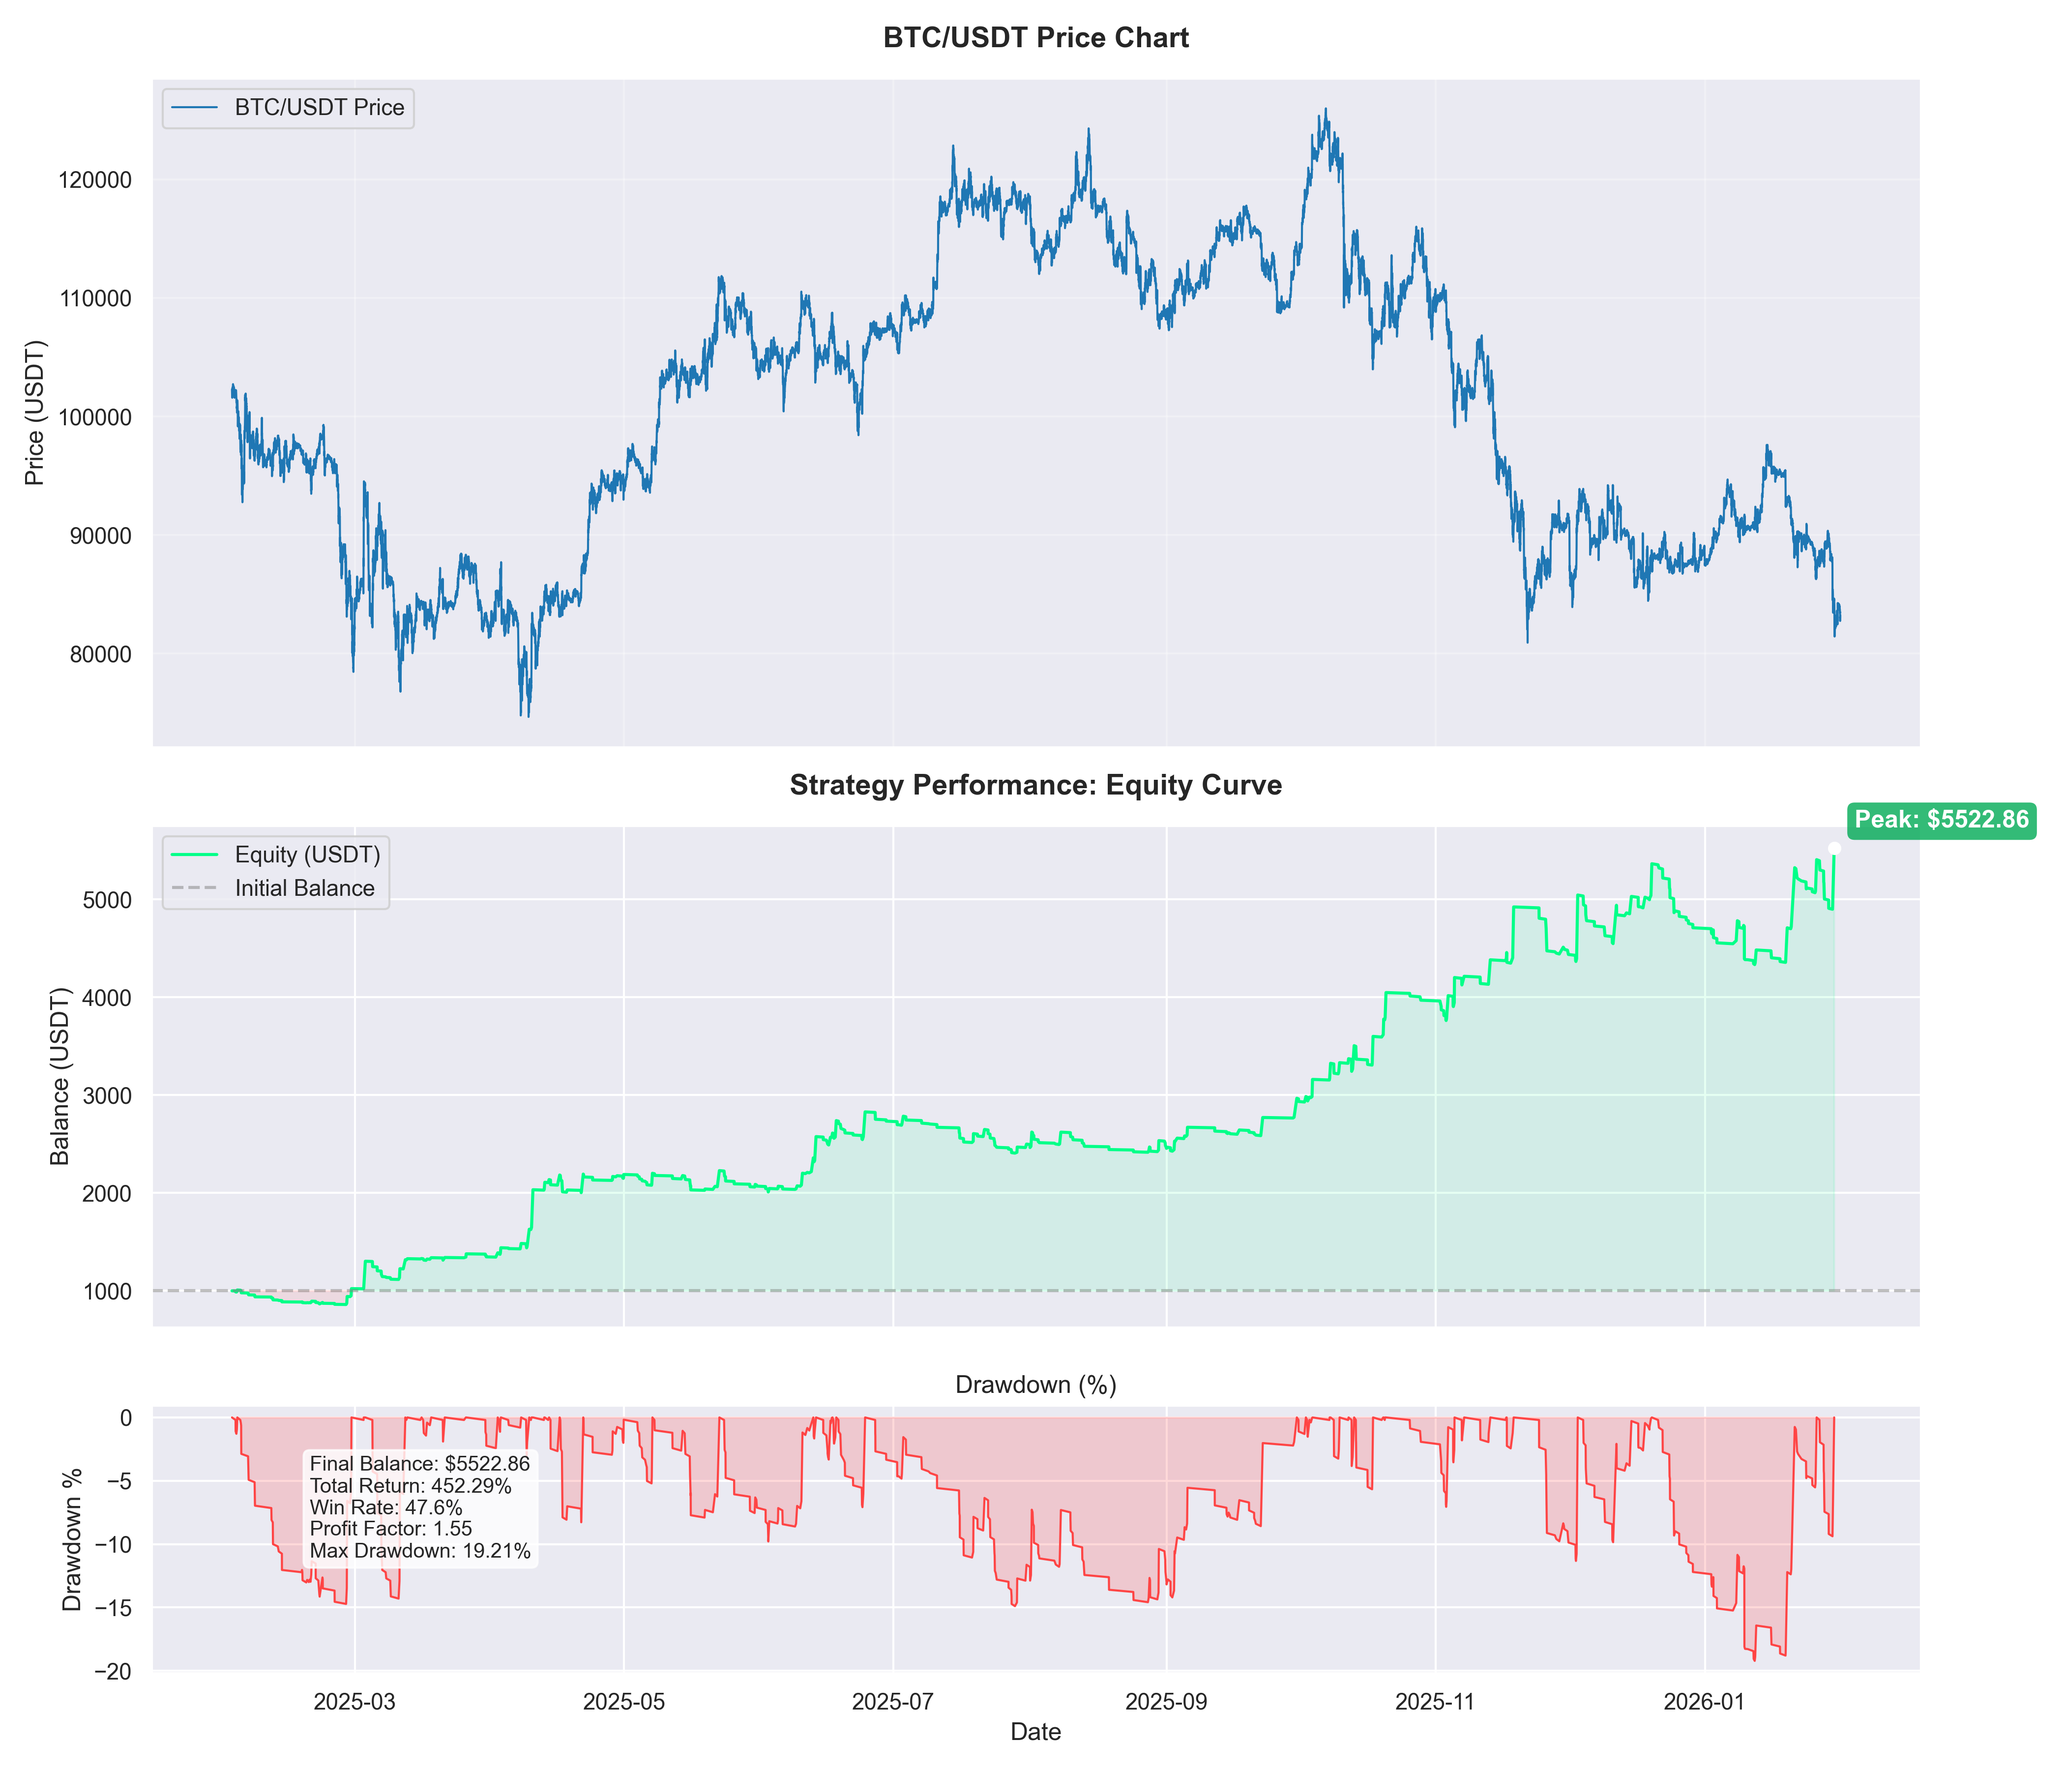
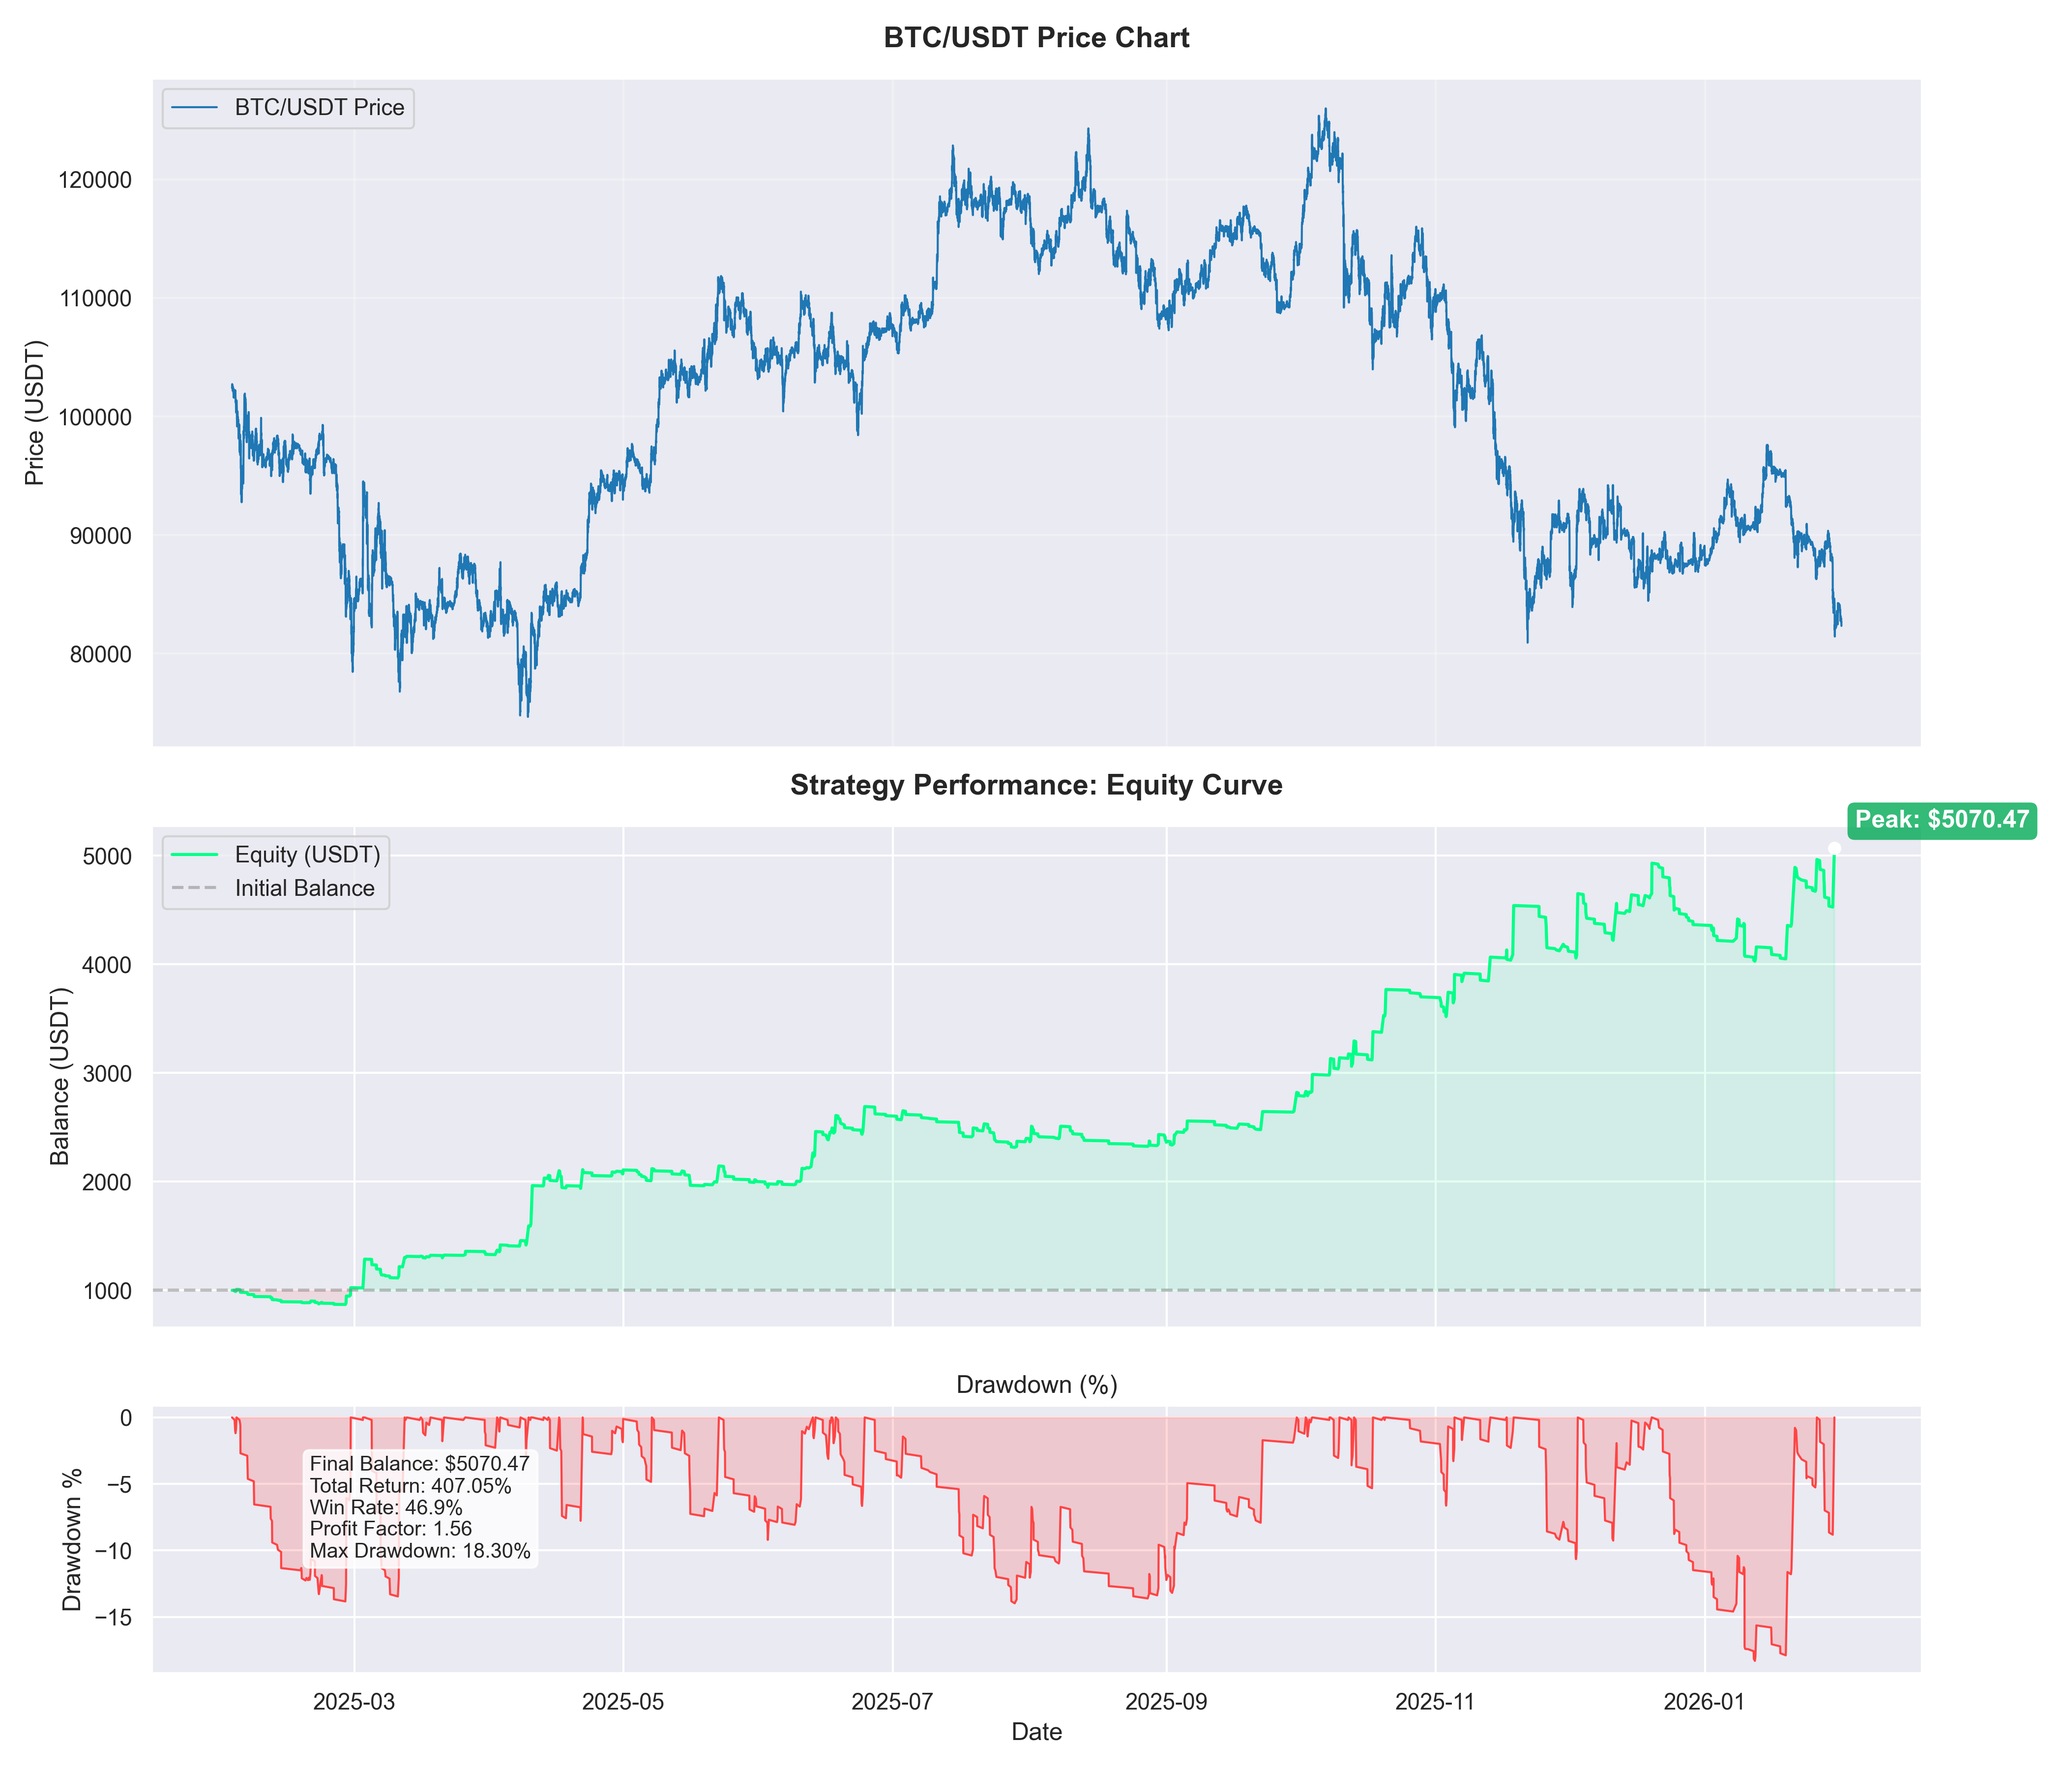
feat: Implement leverage and position size optimization, add backtest result plotting, and update default parameters.

diff --git a/optimize/plot_results.py b/optimize/plot_results.py
@@ -12,48 +12,37 @@ from backtest import get_backtest_data, simulate
 from bot.data_processor import DataProcessor
 from config import EMA_LENGTH, ADX_LENGTH, ATR_LENGTH, RSI_LENGTH, VOLUME_MA_LENGTH
 
-def plot_performance():
-    # 1. Get Data and Run Simulation
-    print("🔄 Loading data and running simulation...")
-    df = get_backtest_data()
-    if df is None:
-        print("❌ No data found.")
-        return
+def plot_performance(df=None, trades=None, res=None):
+    # 1. Get Data and Run Simulation (if not provided)
+    if df is None or trades is None or res is None:
+        print("🔄 Loading data and running simulation...")
+        df = get_backtest_data()
+        if df is None:
+            print("❌ No data found.")
+            return
 
-    # Calculate indicators needed for simulation
-    df_ha = DataProcessor.calculate_heikin_ashi(df)
-    df_st = DataProcessor.calculate_supertrend(df_ha)
-    df_st[f'EMA_{EMA_LENGTH}'] = DataProcessor.calculate_ema(df_st, length=EMA_LENGTH)[f'EMA_{EMA_LENGTH}']
-    df_st['ADX'] = DataProcessor.calculate_adx(df, length=ADX_LENGTH)
-    df_st['ATR'] = DataProcessor.calculate_atr(df, length=ATR_LENGTH)
-    df_st['RSI'] = DataProcessor.calculate_rsi(df, length=RSI_LENGTH)
-    df_st = DataProcessor.calculate_volume_ma(df_st, length=VOLUME_MA_LENGTH)
-    
-    # Run simulation
-    res, trades = simulate(df_st, use_ema_filter=True, use_rsi_filter=True, use_volume_filter=True)
+        # Calculate indicators needed for simulation
+        df_ha = DataProcessor.calculate_heikin_ashi(df)
+        df_st = DataProcessor.calculate_supertrend(df_ha)
+        df_st[f'EMA_{EMA_LENGTH}'] = DataProcessor.calculate_ema(df_st, length=EMA_LENGTH)[f'EMA_{EMA_LENGTH}']
+        df_st['ADX'] = DataProcessor.calculate_adx(df, length=ADX_LENGTH)
+        df_st['ATR'] = DataProcessor.calculate_atr(df, length=ATR_LENGTH)
+        df_st['RSI'] = DataProcessor.calculate_rsi(df, length=RSI_LENGTH)
+        df_st = DataProcessor.calculate_volume_ma(df_st, length=VOLUME_MA_LENGTH)
+        
+        # Run simulation
+        res, trades = simulate(df_st, use_ema_filter=True, use_rsi_filter=True, use_volume_filter=True)
+    else:
+        # If passed in, 'df' IS the final dataframe (already processed)
+        df_st = df
     
     if not trades:
         print("❌ No trades executed.")
         return
 
     # 2. Prepare Data for Plotting
-    equity_curve = []
-    current_balance = 1000 # Initial balance
-    dates = []
     
     # We need to reconstruct the equity curve over time
-    # Create a DataFrame from trades
-    trade_df = pd.DataFrame(trades)
-    
-    # Filter only PnL generating events (CLOSE, STOP_LOSS, PARTIAL_TP, FINAL_CLOSE)
-    # Entry fees are also important for equity
-    
-    pnl_events = []
-    
-    # Sort trades by time just in case
-    # trades are already sorted by execution time in list, but let's be sure
-    # Ensure 'time' is datetime
-    
     running_balance = 1000
     equity_data = [{'time': df['timestamp'].iloc[0], 'balance': 1000}]
     
@@ -123,7 +112,6 @@ def plot_performance():
 
     plt.tight_layout()
     
-    import os
     # Ensure resource directory exists
     resource_dir = 'resource'
     if not os.path.exists(resource_dir):

diff --git a/config.py b/config.py
@@ -15,8 +15,8 @@ TIMEFRAME = "15m"             # Changed to 15m to reduce noise and fees
 SUPERTREND_LENGTH = 15
 SUPERTREND_FACTOR = 1.5       # Higher factor = more stable trend
 EMA_LENGTH = 106              # Stronger trend filter
-LEVERAGE = 20                 # Optimal leverage for BTC
-POSITION_SIZE_PERCENT = 0.2   # Use 30% of balance per position (Balanced Risk/Reward)
+LEVERAGE = 15                 # Optimal leverage for BTC
+POSITION_SIZE_PERCENT = 0.25   # Use 30% of balance per position (Balanced Risk/Reward)
 MAX_TRADES_PER_HOUR = 5       # Safety: Limit trades per hour to prevent API spam
 ADX_LENGTH = 14               # Standard ADX length
 ADX_THRESHOLD = 19         # Trend strength threshold (common: 20 or 25)

diff --git a/optimize/optimize_leverage.py b/optimize/optimize_leverage.py
@@ -8,14 +8,14 @@ from backtest import simulate
 # OPTIMIZATION TARGETS
 # ============================================================================
 TARGET_MAX_DRAWDOWN = 25.0      # Maximum acceptable drawdown (%)
-TARGET_MIN_PROFIT_FACTOR = 1.7  # Minimum acceptable profit factor
+TARGET_MIN_PROFIT_FACTOR = 1.5  # Minimum acceptable profit factor
 
 # Search ranges
-LEVERAGE_MIN = 5
-LEVERAGE_MAX = 25
-LEVERAGE_STEP = 5
+LEVERAGE_MIN = 6
+LEVERAGE_MAX = 13
+LEVERAGE_STEP = 1
 
-POSITION_SIZE_MIN = 0.10  # 10%
+POSITION_SIZE_MIN = 0.50  # 10%
 POSITION_SIZE_MAX = 1.00  # 100%
 POSITION_SIZE_STEP = 0.05  # 5%
 # ============================================================================

diff --git a/backtest.py b/backtest.py
@@ -352,7 +352,7 @@ def run_backtest():
     try:
         from optimize.plot_results import plot_performance
         print("\nGenerating Performance Chart...")
-        plot_performance()
+        plot_performance(df_final, trades, res)
     except Exception as e:
         print(f"Could not generate chart: {e}")
 

diff --git a/main.py b/main.py
@@ -1,4 +1,4 @@
-# Binance Trading Bot - v1.9.0 (Leverage Optimization)
+# Binance Trading Bot - v1.9.2 (Aggressive Growth)
 import time
 from bot.exchange_client import ExchangeClient
 from bot.strategy import Strategy

diff --git a/CHANGELOG.md b/CHANGELOG.md
@@ -2,6 +2,24 @@
  
  All notable changes to this project will be documented in this file.
  
+## [1.9.2] - 2026-01-31
+### Added
+- **Performance Visualization:** Integrated `matplotlib` and `seaborn` for generating equity curve and drawdown charts directly after backtesting.
+- **Dependencies:** Updated `requirements.txt` with plotting libraries.
+
+### Changed
+- **Strategy Tuning (Aggressive):** Shifted to an aggressive growth configuration.
+    - **Leverage:** Increased to **15x**.
+    - **Position Size:** Adjusted to **25%** for balanced management of the higher leverage.
+- **Code Optimization:** Refactored `backtest.py` and `optimize/plot_results.py` to seamlessly share data, improving chart generation speed.
+
+## [1.9.1] - 2026-01-31
+### Changed
+- **Config Update:** Refined trading parameters based on recent testing.
+    - **Leverage:** Adjusted to **7x** (Safe/Optimal for BTC).
+    - **Position Size:** Increased to **75%** for higher capital utilization.
+    - **Partial Take Profit:** Adjusted target to **5.3x ATR**.
+
 ## [1.9.0] - 2026-01-31
 ### Added
 - **Leverage & Position Size Optimizer:** New optimization script to find optimal leverage and position size based on target Max Drawdown and Profit Factor.

diff --git a/README.md b/README.md
@@ -1,4 +1,4 @@
-# Binance SuperTrend & EMA Trading Bot 🚀 (v1.9.0)
+# Binance SuperTrend & EMA Trading Bot 🚀 (v1.9.2)
 
 A robust, automated cryptocurrency trading bot for Binance Futures, built with Python. This bot utilizes a trend-following strategy combining **SuperTrend** and **EMA 99** (default) to capture major market moves while filtering out noise.
 
@@ -117,16 +117,16 @@ TIMEFRAME = "15m"
 SUPERTREND_LENGTH = 15
 SUPERTREND_FACTOR = 1.5
 EMA_LENGTH = 106
-LEVERAGE = 35              # Optimized for max returns (or use 5x for safety)
-POSITION_SIZE_PERCENT = 0.15  # Optimized for balanced risk/reward
+LEVERAGE = 15                # Aggressive Growth Config
+POSITION_SIZE_PERCENT = 0.25 # Use 25% of balance per position
 ADX_THRESHOLD = 19
 ATR_MULTIPLIER = 0.9
 RSI_OVERBOUGHT = 66
 RSI_OVERSOLD = 35
 VOLUME_MA_LENGTH = 55
 PARTIAL_TP_ENABLED = True
-PARTIAL_TP_MULTIPLIER = 5.0
-PARTIAL_TP_PERCENT = 0.1
+PARTIAL_TP_MULTIPLIER = 5.3    # Take profit at 5.3x ATR
+PARTIAL_TP_PERCENT = 0.1       # Close 10% of position
 ```
 
 ---
